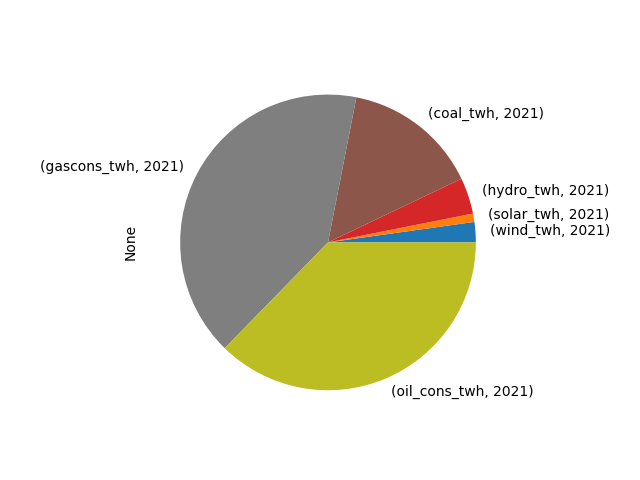
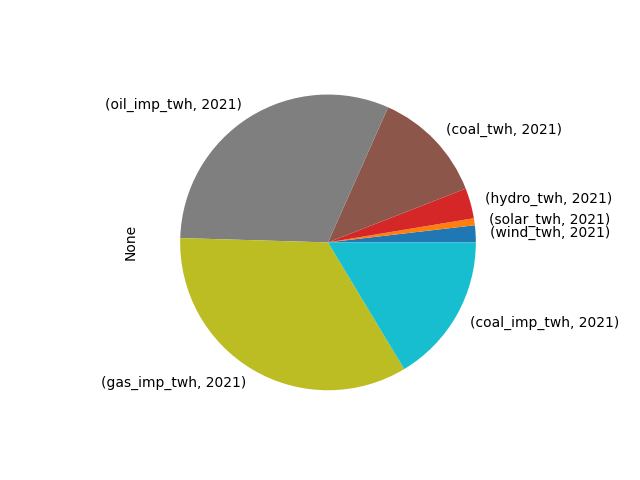
--

diff --git a/tr/2019/05/energstats.md b/tr/2019/05/energstats.md
@@ -1,5 +1,31 @@
 # Enerji İstatistikleri
 
+
+def get_bp_country(country):
+    fin = '../../2019/05/bp-stats-review-2022-consolidated-dataset-panel-format.csv'
+    df = pd.read_csv(fin)
+    df = df[df.Country == country]
+    df = df.set_index('Year')
+    df = df[df.index > 1980]
+    
+    df = df[['wind_twh','solar_twh','oilprod_kbd','nuclear_twh','hydro_twh',\
+             'gasprod_ej','coalprod_ej','coalcons_ej','gascons_ej','oilcons_ej']]
+
+    df['oil_twh'] = df.oilprod_kbd * 365 * 1700 * 1000 / 1e9
+    df['coal_twh'] = df.coalprod_ej * 277.778
+    df['gasprod_twh'] = df.gasprod_ej * 277.778
+    df['oil_imp_twh'] = (df.oilcons_ej * 277.778) - df.oil_twh.fillna(0)
+    df['gas_imp_twh'] = (df.gascons_ej * 277.778) - df.gasprod_twh.fillna(0)
+    df['coal_imp_twh'] = (df.coalcons_ej * 277.778) - df.coal_twh.fillna(0)
+    cols = [x for x in df.columns if '_twh' in x]
+    df = df[cols].fillna(0)
+    df2 = df[cols].tail(1).unstack()
+    df2 = (df2 / df2.sum())*100.0
+    df2 = df2.dropna()
+    return df2
+
+
+
 ```python
 import pandas as pd
 pd.set_option('display.max_columns', None)
@@ -8,12 +34,15 @@ df = pd.read_csv(fin)
 df = df[df.Country == 'Turkey']
 df = df.set_index('Year')
 df = df[df.index > 1980]
-df = df[['wind_twh','solar_twh','oilprod_kbd','nuclear_twh','hydro_twh','gasprod_ej','coalprod_ej','gascons_ej','oilcons_ej']]
+df = df[['wind_twh','solar_twh','oilprod_kbd','nuclear_twh','hydro_twh',\
+         'gasprod_ej','coalprod_ej','coalcons_ej','gascons_ej','oilcons_ej']]
+
 df['oil_twh'] = df.oilprod_kbd * 365 * 1700 * 1000 / 1e9
-df['coal_twh'] = df.coalprod_ej * 277.778 
+df['coal_twh'] = df.coalprod_ej * 277.778
 df['gasprod_twh'] = df.gasprod_ej * 277.778
-df['gascons_twh'] = df.gascons_ej * 277.778
-df['oil_cons_twh'] = df.oilcons_ej * 277.778
+df['oil_imp_twh'] = (df.oilcons_ej * 277.778) - df.oil_twh.fillna(0)
+df['gas_imp_twh'] = (df.gascons_ej * 277.778) - df.gasprod_twh.fillna(0)
+df['coal_imp_twh'] = (df.coalcons_ej * 277.778) - df.coal_twh.fillna(0)
 cols = [x for x in df.columns if '_twh' in x]
 df = df[cols].fillna(0)
 df[cols].plot()
@@ -28,11 +57,11 @@ Year
 2020  24.828200  10.950200          0.0  78.094300      0.0  182.830358   
 2021  31.137427  12.833868          0.0  55.695232      0.0  208.643868   
 
-      gasprod_twh  gascons_twh  oil_cons_twh  
-Year                                          
-2019          0.0   433.613797    558.265075  
-2020          0.0   462.099445    511.008829  
-2021          0.0   573.235049    524.657636  
+      gasprod_twh  oil_imp_twh  gas_imp_twh  coal_imp_twh  
+Year                                                       
+2019          0.0   558.265075   433.613797    285.753747  
+2020          0.0   511.008829   462.099445    289.536787  
+2021          0.0   524.657636   573.235049    275.431126  
 ```
 
 ![](energy-sources.png)
@@ -54,15 +83,16 @@ df2
 ```text
 Out[1]: 
               Year
-wind_twh      2021     2.214291
-solar_twh     2021     0.912661
+wind_twh      2021     1.851617
+solar_twh     2021     0.763178
 nuclear_twh   2021     0.000000
-hydro_twh     2021     3.960682
+hydro_twh     2021     3.311971
 oil_twh       2021     0.000000
-coal_twh      2021    14.837392
+coal_twh      2021    12.407209
 gasprod_twh   2021     0.000000
-gascons_twh   2021    40.764741
-oil_cons_twh  2021    37.310232
+oil_imp_twh   2021    31.199272
+gas_imp_twh   2021    34.087975
+coal_imp_twh  2021    16.378778
 dtype: float64
 ```
 
